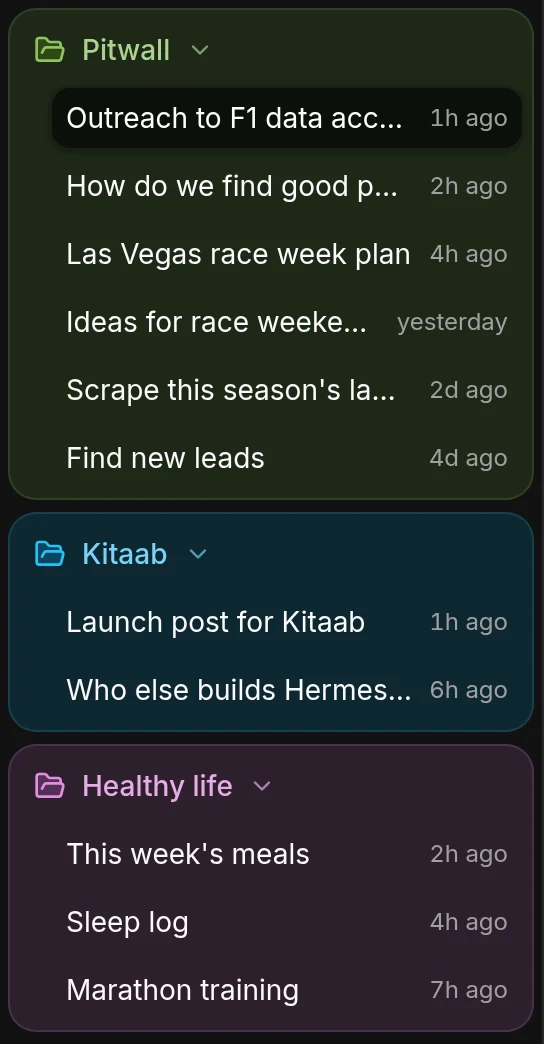
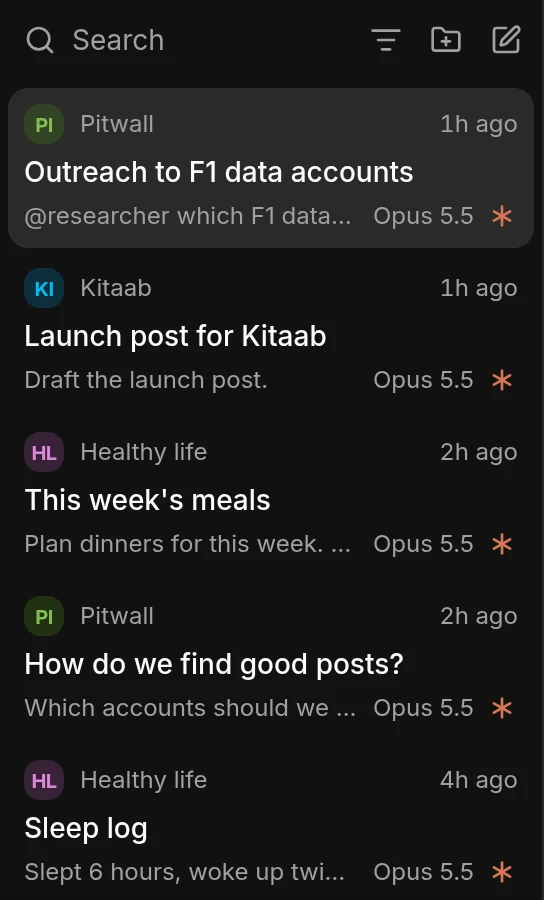
Show the list layout in the website's projects screenshot

diff --git a/site/index.html b/site/index.html
@@ -95,7 +95,7 @@
         <p class="how"><span>How</span>Click the project name at the top of the sidebar, then New project.</p>
       </div>
       <div class="visual">
-        <figure class="shot narrow"><img src="img/projects.webp" width="544" height="1044" alt="The Kitaab sidebar with the Pitwall, Kitaab and Healthy life projects as folders, each holding its threads"></figure>
+        <figure class="shot narrow"><img src="img/projects.webp" width="544" height="900" alt="The Kitaab sidebar listing threads from the Pitwall, Kitaab and Healthy life projects, each tagged with its project"></figure>
       </div>
     </div>
   </section>
